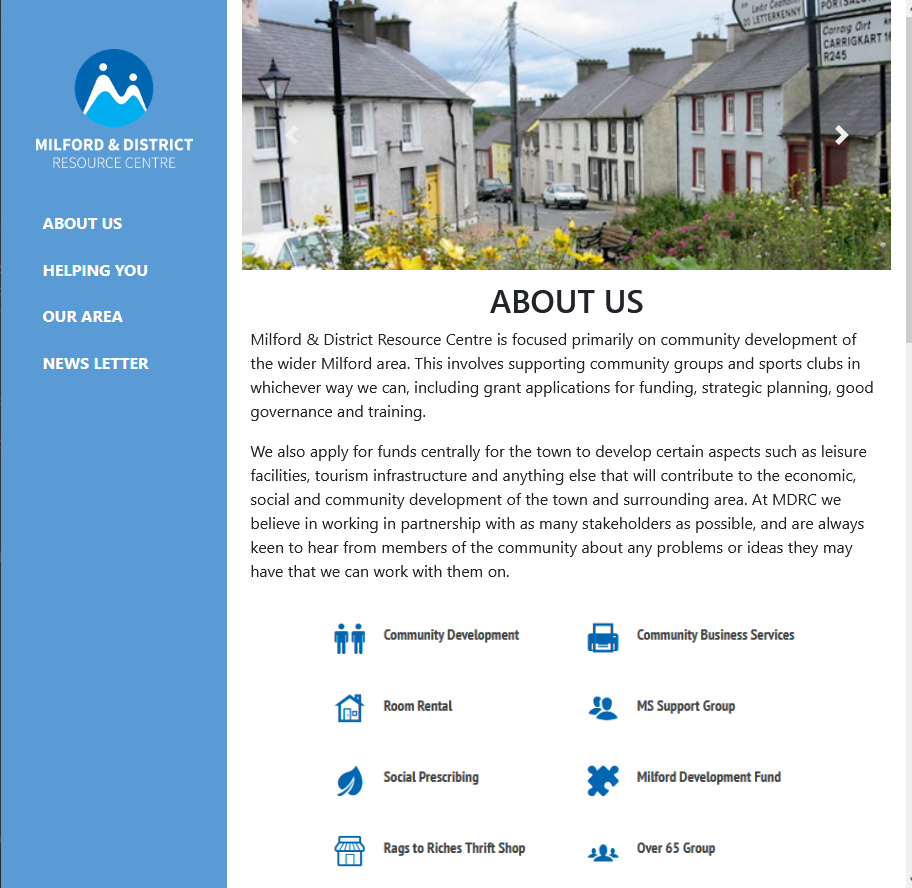
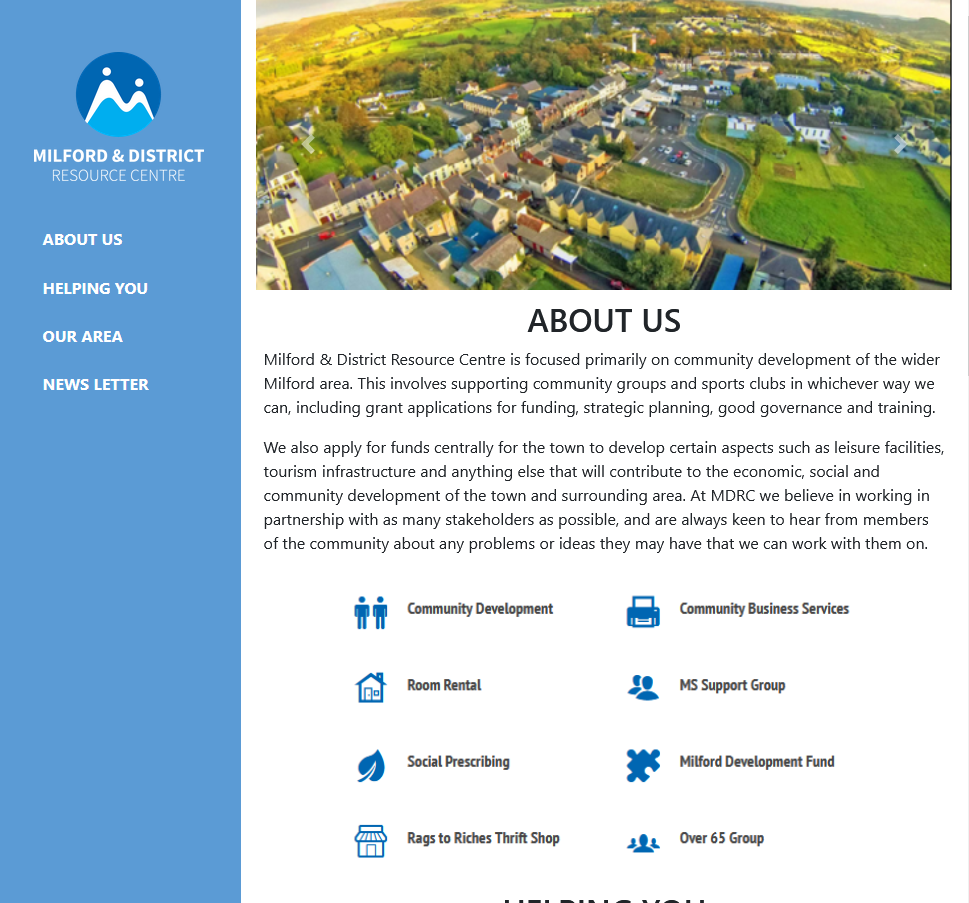
better photos

diff --git a/src/components/Header/Header.jsx b/src/components/Header/Header.jsx
@@ -46,21 +46,6 @@ const Header = () => {
           </div>
         </div>
       </div>
-      {/* <div className="info"> */}
-
-      {/* <img src={btImg} alt="" />
-        <div>
-          <p>
-            My name is Barry and I am a graduate of Strive School. Previously, I
-            worked as an online English tutor. Now, I am a Fullstack developer
-            with a special focus on the frontend.{" "}
-          </p>
-          <p>
-            Feel free to check out my github and portfolio and don't hesitate to
-            get in touch. Thank you
-          </p>
-        </div> */}
-      {/* </div> */}
     </div>
   );
 };

diff --git a/src/components/Project/Project.jsx b/src/components/Project/Project.jsx
@@ -1,5 +1,5 @@
-import Project1 from "../../data/milfordImg.PNG";
-import Project2 from "../../data/odealsAppImg.PNG";
+import Project1 from "../../data/milford.PNG";
+import Project2 from "../../data/odeals.PNG";
 import Project3 from "../../data/dartsAppImg.PNG";
 import Project4 from "../../data/endOfDayApp.PNG";
 import "./project.css";
